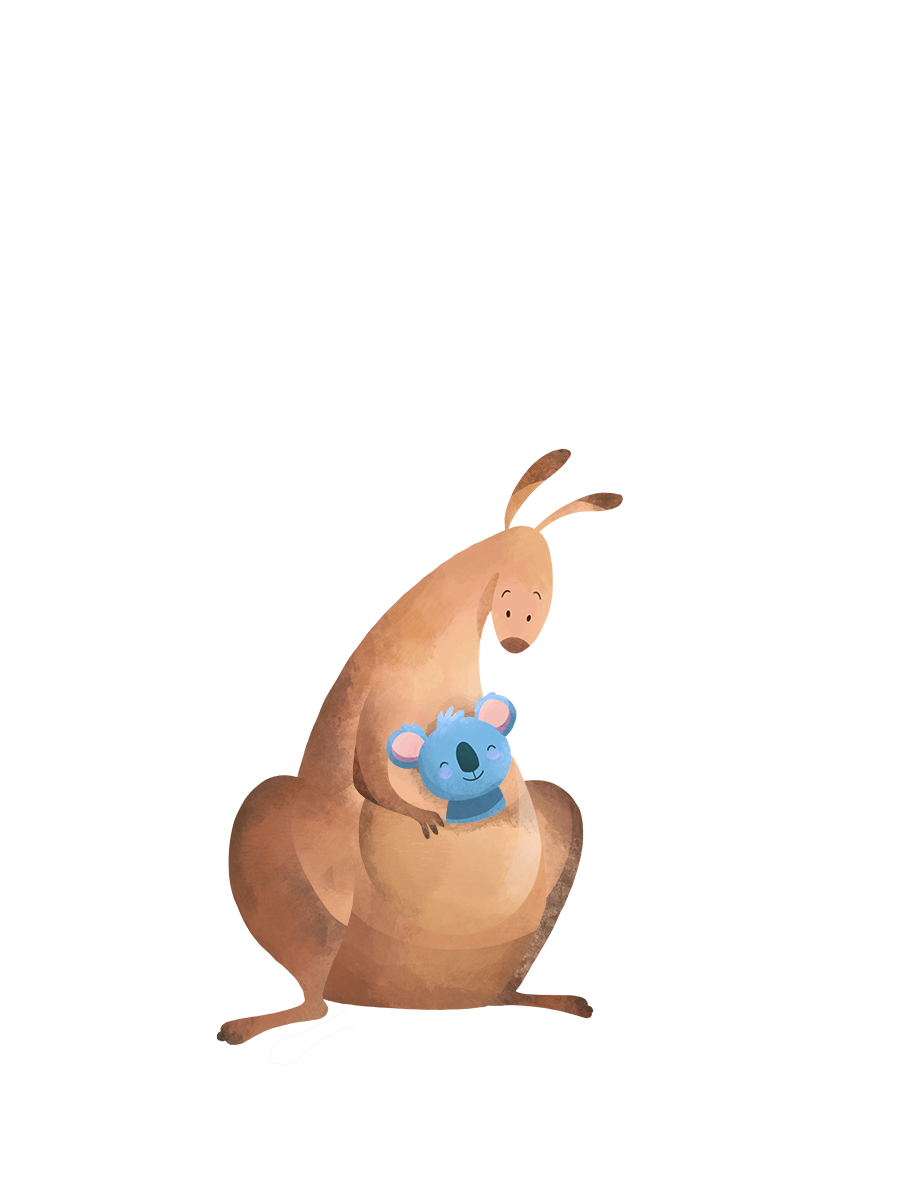
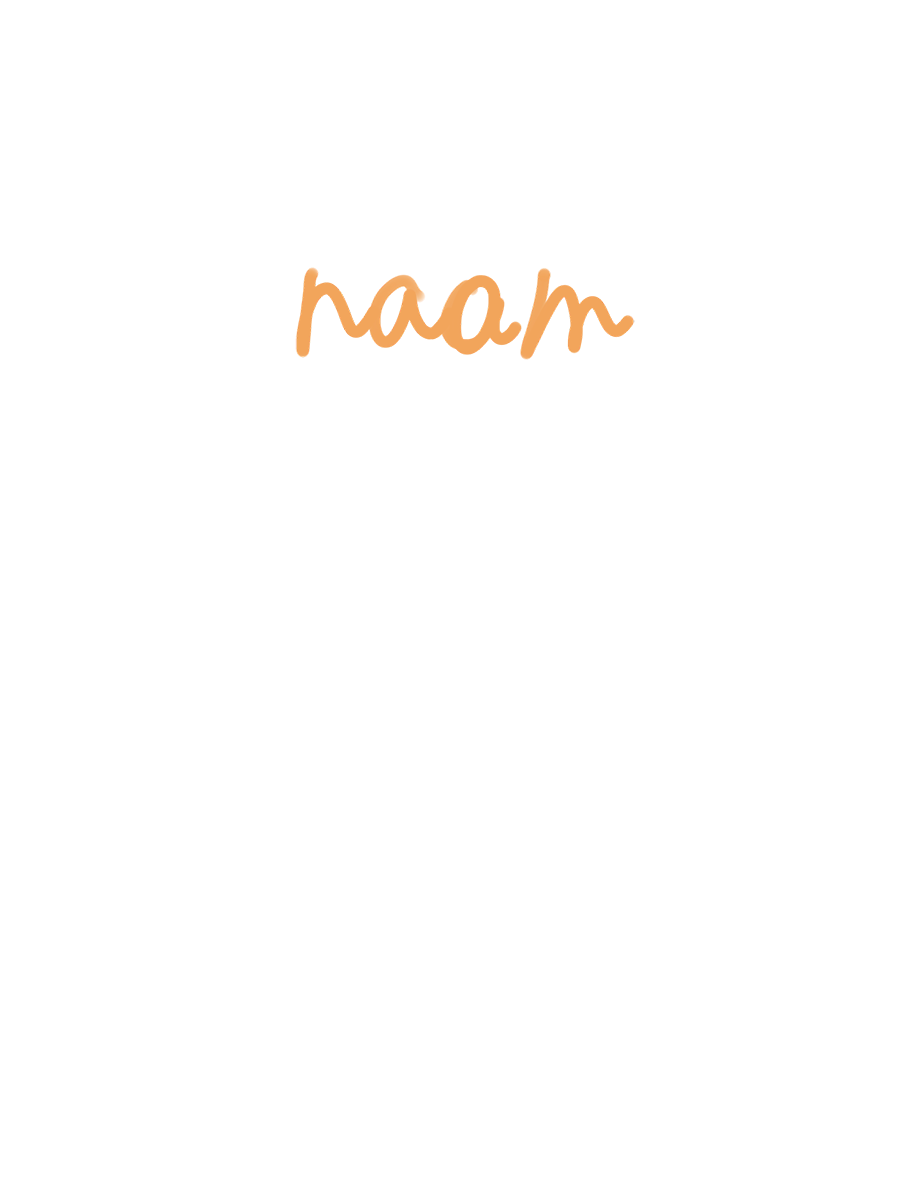
aangepaste tekeningen

Changed region(s): [[0.2489, 0.37, 0.6844, 0.8942], [0.3111, 0.2158, 0.7156, 0.3083]]

diff --git a/main.js b/main.js
@@ -39,7 +39,7 @@ var layer_list = [
 		'opacity': 1
 	},
 	{
-		'image': clouds,
+		'image': animals,
 		'src': './img/layer_2_1.png',
 		'z_index': -2,
 		'position': {x: 0, y: 0},
@@ -47,27 +47,27 @@ var layer_list = [
 		'opacity': 1
 	},
 	{
-		'image': floaties_1,
+		'image': plant_1,
 		'src': './img/layer_3_1.png',
 		'z_index': -1.25,
 		'position': {x: 0, y: 0},
-		'blend': 'overlay',
+		'blend': null,
 		'opacity': 1
 	},
 	{
-		'image': floaties_2,
+		'image': plant_2,
 		'src': './img/layer_4_1.png',
 		'z_index': -0.5,
 		'position': {x: 0, y: 0},
-		'blend': 'overlay',
+		'blend': null,
 		'opacity': 1
 	},
 	{
-		'image': shadows,
+		'image': plant_3,
 		'src': './img/layer_5_1.png',
 		'z_index': -1.25,
 		'position': {x: 0, y: 0},
-		'blend': 'multiply',
+		'blend': null,
 		'opacity': 0.75
 	},
 	{
@@ -79,7 +79,7 @@ var layer_list = [
 		'opacity': 1
 	},
 	{
-		'image': humans,
+		'image': naam,
 		'src': './img/layer_7_1.png',
 		'z_index': 0.8,
 		'position': {x: 0, y: 0},
@@ -87,7 +87,7 @@ var layer_list = [
 		'opacity': 1
 	},
 	{
-		'image': floaties_3,
+		'image': floaties,
 		'src': './img/layer_8_1.png',
 		'z_index': 2,
 		'position': {x: 0, y: 0},
